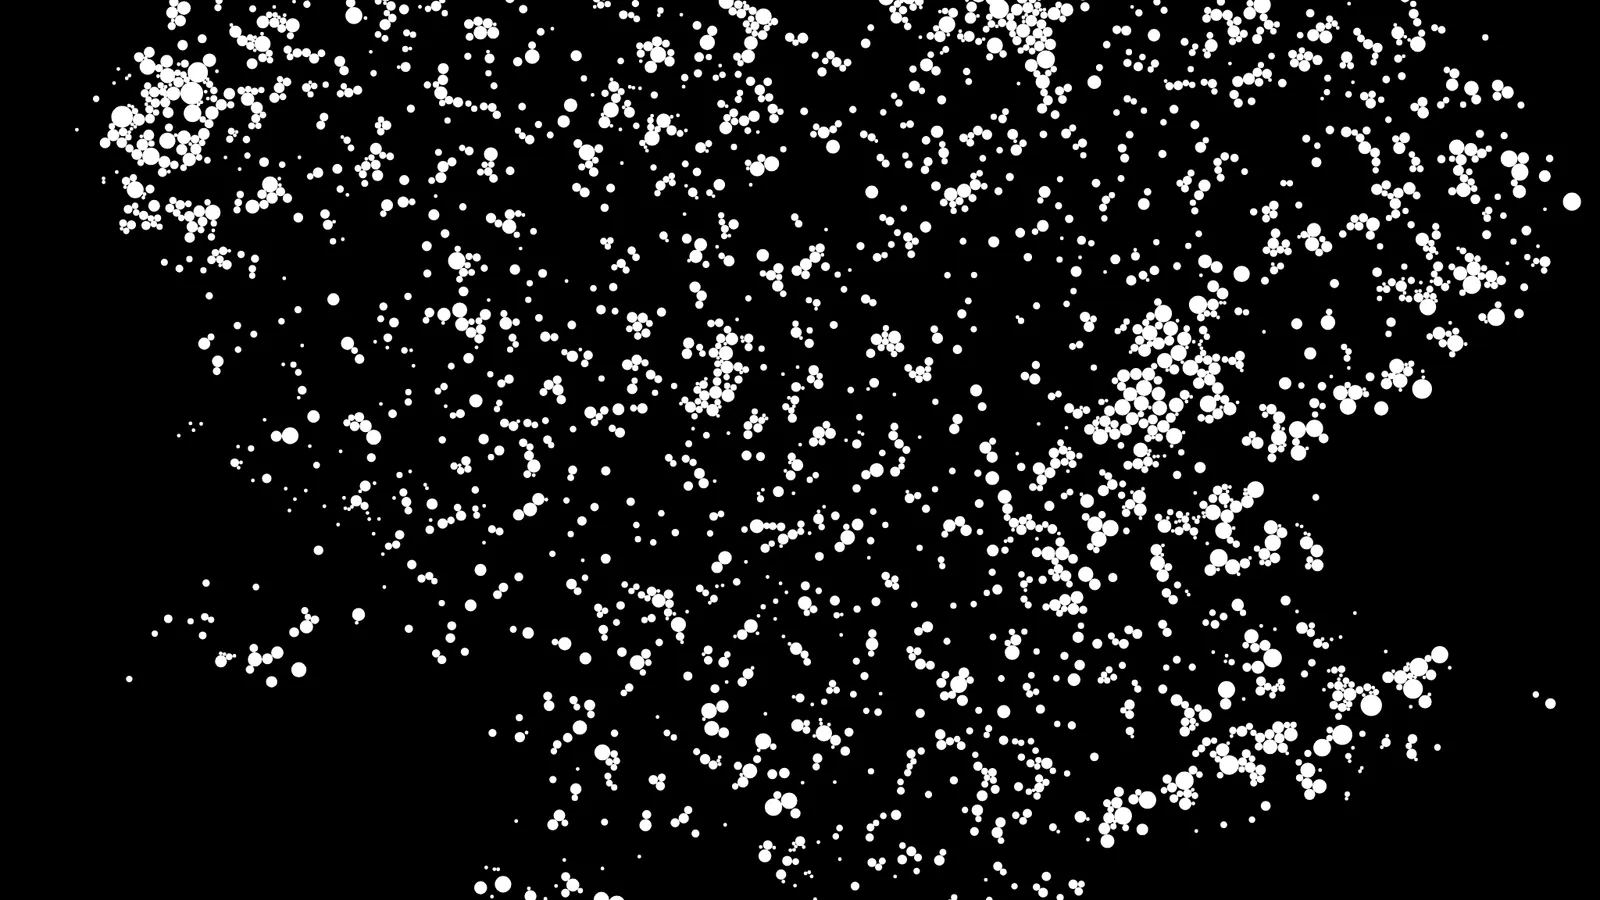
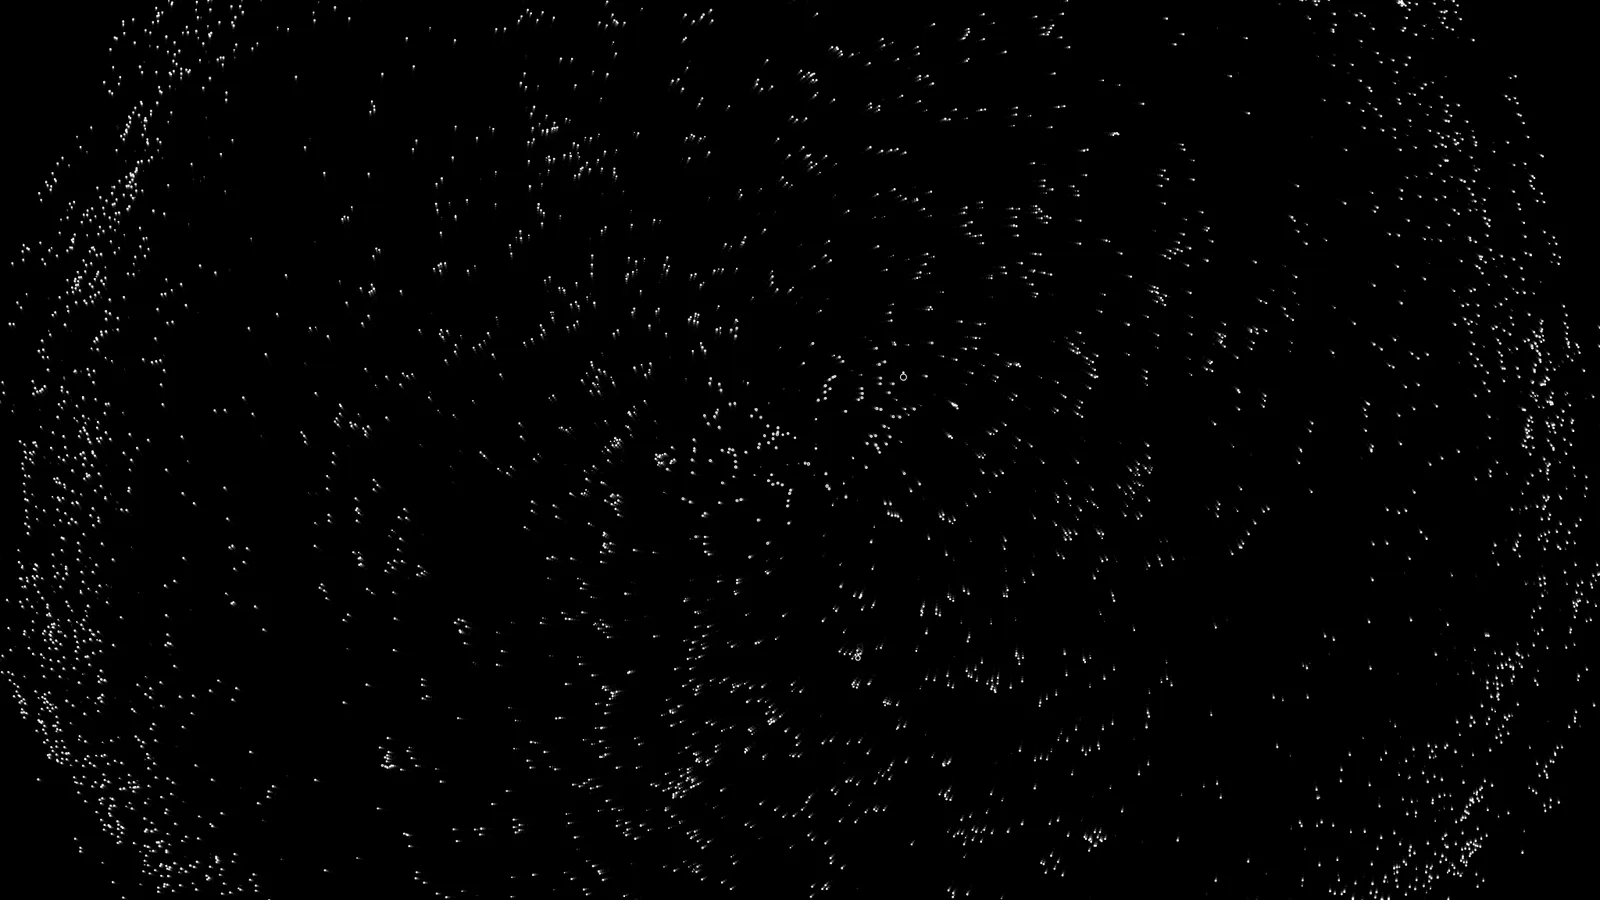
feat(bubbles): Time bubbles is the primary
His scene and his name for it. Position one is what a bare address lands
on, what the poster is captured from, and what the note reads its
backdrop and accent off — so promoting it moves all four together.

It is also the scene that came for a warning I wrote in the first build
and never had to obey. `poster.ts` said the picture does not accumulate,
and that the day a scene with a wake was promoted to first the recipe
would have to say how many frames. This one has `trail` at 0.35, so its
streaks are a rendering artefact built frame by frame rather than
simulation state: stepping the water forward a hundred seconds and
drawing once gives a frame with no wake at all. My first screenshot of it
was exactly that and looked far emptier than what he was seeing.

The fix is in the piece, not the recipe, because all three surfaces that
arrive somewhere without watching it happen fall into it together.
`settle` draws its last sixty frames instead of stepping past them, so
the poster, the note's backdrop and the reduced-motion still all keep
their wake without anyone having to remember.

Two things that only broke because the primary moved:

- The note's backdrop widened `frame` and `spacing` to spread the foam
  across the page instead of leaving a bright patch behind the middle
  column. Right for a primary whose foam gathered over its jets, wrong
  for one that already fills its frame. Turning the gas down is enough.
[…]

diff --git a/src/experiments/bubbles/bubbles.ts b/src/experiments/bubbles/bubbles.ts
@@ -92,6 +92,23 @@ const MAX_STEPS = 4
 /** How long the water runs before a reduced-motion still is taken, in seconds. */
 const STILL_SECONDS = 22
 
+/**
+ * Frames actually drawn at the end of a `settle`, so a wake has time to build.
+ *
+ * **A picture that accumulates has to be drawn into, not merely advanced to.**
+ * `trail` keeps a share of the previous frame, so the streaks are a rendering
+ * artefact rather than simulation state: stepping the water forward a hundred
+ * seconds and drawing once gives a frame with no wake in it at all, however
+ * settled the water is. All three surfaces that arrive somewhere without
+ * watching it happen fall into this together — the captured poster, the note's
+ * backdrop and the reduced-motion still.
+ *
+ * Thirty is generous. At `trail` 0.95 the oldest visible frame is about sixty
+ * back; below 0.8 it is under ten. The section's record on this is the posters
+ * part of `../AGENTS.md`, and psyxels hit it first.
+ */
+const WAKE_FRAMES = 60
+
 /** How far outside the frame a bubble is still simulated, as a fraction of `span`. */
 const MARGIN = 0.18
 
@@ -1280,8 +1297,15 @@ export function createBubbles(canvas: HTMLCanvasElement, initial: Settings): Bub
       window.addEventListener("resize", onResize)
       if (still.matches) {
         // A picture of the instant the jets were switched on is not a picture of
-        // this piece, so the still is of water that has been going a while.
-        for (let t = 0; t < STILL_SECONDS; t += STEP) step(STEP)
+        // this piece, so the still is of water that has been going a while —
+        // and its last frames are drawn rather than stepped past, so a scene
+        // with a wake keeps it.
+        const drawn = settings.trail > 0 ? WAKE_FRAMES * STEP : 0
+        for (let t = 0; t < STILL_SECONDS - drawn; t += STEP) step(STEP)
+        for (let t = 0; t < drawn; t += STEP) {
+          step(STEP)
+          draw()
+        }
         draw()
         return
       }
@@ -1323,7 +1347,14 @@ export function createBubbles(canvas: HTMLCanvasElement, initial: Settings): Bub
 
     settle(seconds) {
       const bounded = Math.max(0, Math.min(600, seconds))
-      for (let t = 0; t < bounded; t += STEP) step(STEP)
+      // The tail is drawn frame by frame rather than stepped past, so a scene
+      // with a wake arrives with its wake. See `WAKE_FRAMES`.
+      const drawn = settings.trail > 0 ? Math.min(bounded, WAKE_FRAMES * STEP) : 0
+      for (let t = 0; t < bounded - drawn; t += STEP) step(STEP)
+      for (let t = 0; t < drawn; t += STEP) {
+        step(STEP)
+        draw()
+      }
       draw()
     },
 

diff --git a/src/experiments/bubbles/poster.ts b/src/experiments/bubbles/poster.ts
@@ -12,14 +12,22 @@ import type { PosterRecipe } from "@/experiments/poster"
  * piece at five seconds and a false one of the piece. `settle` is what makes it
  * the piece.
  *
- * **The picture does not accumulate**, so no frames have to be drawn into it —
- * `trail` is 0 in the primary and every circle is drawn whole each frame. If a
- * scene with a wake is ever promoted to first, this recipe has to say how many
- * frames, and the note's backdrop and the reduced-motion still fall into it
- * together.
+ * **The picture accumulates now, and that warning came due.** This docblock used
+ * to say it did not, and that the day a scene with a wake was promoted to first
+ * the recipe would have to say how many frames. `Time bubbles` has `trail` at
+ * 0.35, so the streaks are a rendering artefact built up frame by frame rather
+ * than simulation state: stepping the water forward and drawing once gives a
+ * frame with no wake in it at all.
+ *
+ * The fix is in the piece rather than here, because all three surfaces that
+ * arrive somewhere without watching it happen fall into it together — this
+ * poster, the note's backdrop and the reduced-motion still. `settle` now draws
+ * its last `WAKE_FRAMES` frames instead of stepping past them, so every one of
+ * them gets a wake without having to remember to ask.
  *
  * **It is not reproducible**, for a reason the piece cannot fix and should not:
- * the seed fixes where the jets are and which way they turn, and nothing else.
+ * the seed fixes where the jets are, which way they turn and which eddies the
+ * background is made of, and nothing else.
  * Every bubble after that is drawn from a stream that has been running since the
  * page loaded. Two captures are two different minutes of the same tub — hence a
  * few tries, since coalescence is bursty and a shutter can land in a quiet

diff --git a/src/experiments/bubbles/settings.ts b/src/experiments/bubbles/settings.ts
@@ -630,6 +630,52 @@ export const DEFAULT_SETTINGS: Settings = {
  */
 export const PRESETS: { label: string; hint: string; settings: Settings }[] = [
   {
+    label: "Time bubbles",
+    hint: "Four jets turning the same way under slow, barely-returning water, drawn as hairline rings with a wake behind them. Nothing here holds together for long: the boil shreds every bubble almost as fast as it arrives, and what you are left watching is the flow itself, written in the streaks of several thousand specks. Andrei's scene and his name for it.",
+    settings: {
+      jets: 4,
+      layout: "ring",
+      spin: "same",
+      look: "ring",
+      spread: 0.12,
+      depth: 0.75,
+      plume: 0.1,
+      core: 0.21,
+      outflow: 0.36,
+      swirl: 0.48,
+      gas: 700,
+      pulse: 0,
+      birthMin: 0.0005,
+      birthMax: 0.0065,
+      stable: 0.047,
+      shatter: 0.78,
+      churn: 0.06,
+      scale: 0.4,
+      drift: 0.9,
+      ebb: 0.1,
+      wave: 0.02,
+      waveHz: 1.8,
+      lag: 0.36,
+      pack: 0.56,
+      cling: 0.98,
+      merge: 1.27,
+      rupture: 0.16,
+      bounce: 0.52,
+      life: 127,
+      fragile: 0,
+      popSize: 0.046,
+      popRate: 0,
+      spray: 3,
+      count: 5000,
+      rim: 0.6,
+      playback: 0.13,
+      trail: 0.35,
+      span: 1.25,
+      hue: 196,
+      seed: 2718,
+    },
+  },
+  {
     label: "deep water",
     hint: "Jets a metre and a half down. Gas arrives as fine foam, is torn apart again over each boil, and only assembles into big circles out in the calm. The starting point.",
     settings: {

diff --git a/src/experiments/bubbles/seed.md b/src/experiments/bubbles/seed.md
@@ -345,3 +345,40 @@ the arithmetic says the two flows cancel, over a range of `return`: 1.005 agains
   actually using. `standing still`, `slow water` and `shallow` are the ones I
   would drop first, and `shallow` only because it exists to demonstrate `depth`
   rather than to be looked at.
+
+## 2026-09-20 — seventh round
+
+> Make this preset number one "Time bubbles"
+>
+> http://10.1.11.11:4456/experiments/bubbles/?s=_4_177vX_0BiMTEjANGtCgUSTRIAZybEKnQA0aIK6CADLZzA-4gfiAQA
+
+## 2026-09-20 — promoting it, and the warning that came due
+
+`Time bubbles` is position one. A bare address lands on it, the poster is
+captured from it, and the note's backdrop and accent are read off it — that is
+what position one means here, so promoting a preset moves all four together.
+
+**It turned out to be the scene that broke a rule I had written down and never
+had to obey.** `poster.ts` said "the picture does not accumulate… if a scene with
+a wake is ever promoted to first, this recipe has to say how many frames". This
+one has `trail` at 0.35, so its streaks are built up frame by frame rather than
+being simulation state: stepping the water forward a hundred seconds and drawing
+once gives a frame with no wake in it at all. My first screenshot of your scene
+was exactly that, and it looked far emptier than what you are seeing.
+
+The fix went into the piece rather than into the recipe, because all three
+surfaces that arrive somewhere without watching it happen fall into it together:
+`settle` now draws its last sixty frames instead of stepping past them, so the
+poster, the note's backdrop and the reduced-motion still all keep their wake
+without anyone having to remember.
+
+- **The note's backdrop stopped widening the frame.** It used to spread the foam
+  across the page so it did not sit as a bright patch behind the middle column,
+  which was right for a primary whose foam gathered over its jets and wrong for
+  one that already fills the frame. Turning the gas down is enough now.
+- **`about.md` names scenes instead of numbering them.** Every reference to
+  "preset 3" broke the moment this one went to the front, so they are `foam`,
+  `standing ring` and so on now.
+- **`DEFAULT_SETTINGS` was deliberately left alone.** It is the baseline an
+  address with gaps falls back to, not a scene, and the section is explicit that
+  the two are different things.

diff --git a/src/experiments/bubbles/about.md b/src/experiments/bubbles/about.md
@@ -212,8 +212,8 @@ allowed to spend.
 A few places worth going:
 
 - **`depth`, first.** It is the difference between a hotel spa and a lake, and
-  presets 1 and 2 are the same scene at two metres and at fifteen centimetres so
-  you can see what it does without hunting for it.
+  `deep water` and `shallow` are the same scene at two metres and at fifteen
+  centimetres, so you can see what it does without hunting for it.
 - **`speed`** slows the whole thing down without changing anything about the
   water. Depth is the honest way to calm the surface; this is the camera. Both
   are worth having and they do not do the same thing.
@@ -229,7 +229,7 @@ A few places worth going:
 - **`coalesce` down, for foam.** It is the answer to "how do I make it
   accumulate": bring it under about one event a second and touching bubbles stay
   neighbours instead of joining, so the surface packs. Take it up to the top and
-  the same scene dissolves into a handful of large circles. Preset 3 is the
+  the same scene dissolves into a handful of large circles. `foam` is the scene at the
   packed end.
 - **`rupture` to zero.** Every contact that resolves becomes a merge, so the
   foam can only ever coarsen. Up near 1 and a crowd keeps destroying itself.
@@ -242,8 +242,7 @@ A few places worth going:
   the same film life whatever its size, so the small ones still outlast the big
   ones — they just have less to lose.
 - **`holds at` right up, with `torn by` down.** Soapy water: films hold a much
-  bigger bubble together, so the calm fills with large circles. `slick` and
-  `meniscus` are both that.
+  bigger bubble together, so the calm fills with large circles. `slick` and `meniscus` are both that.
 - **`churn` up and `jet power` down.** The jets stop mattering and the background
   is the whole picture — the clearest look you can get at a divergence-free
   field, because the foam wanders without ever collecting anywhere.
